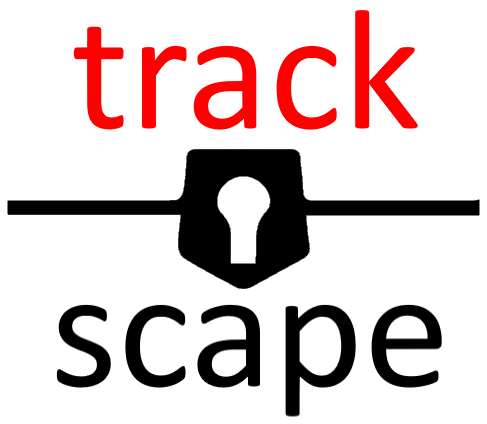
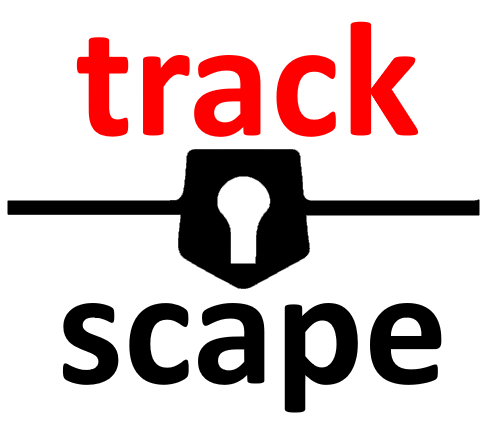
Red style

Changed region(s): [[0.154, 0.0, 0.8624, 0.3373], [0.0924, 0.7052, 0.5544, 0.9198], [0.5852, 0.7052, 0.924, 0.9811]]

diff --git a/src/main/java/gui/stylesheet.css b/src/main/java/gui/stylesheet.css
@@ -5,6 +5,16 @@
     -fx-background-image: url("././images/light.jpg");
 }
 
+.menu-bar{
+    -fx-background-image: url("././images/red.PNG");
+    -fx-font-style: bold;
+}
+
+.button{
+    -fx-border-color: black;
+    -fx-background-image: url("././images/red.PNG");
+}
+
 .progress-reset{
     -fx-border-width: 3px;
     -fx-border-radius: 80%;

diff --git a/src/main/java/gui/BaseScene.java b/src/main/java/gui/BaseScene.java
@@ -45,7 +45,7 @@ public abstract class BaseScene {
 
         final int width = 150;
         File streamEnd = new File(System.getProperty("user.dir")
-            + "\\src\\main\\java\\gui\\images\\trackscape3.png");
+            + "\\src\\main\\java\\gui\\images\\trackscape2.png");
         Image trackscape = new Image(streamEnd.toURI().toString());
         ImageView logo = new ImageView();
         logo.setFitWidth(width);
